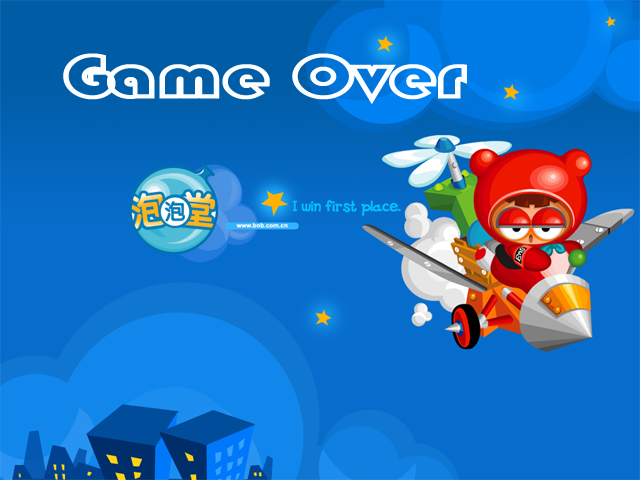
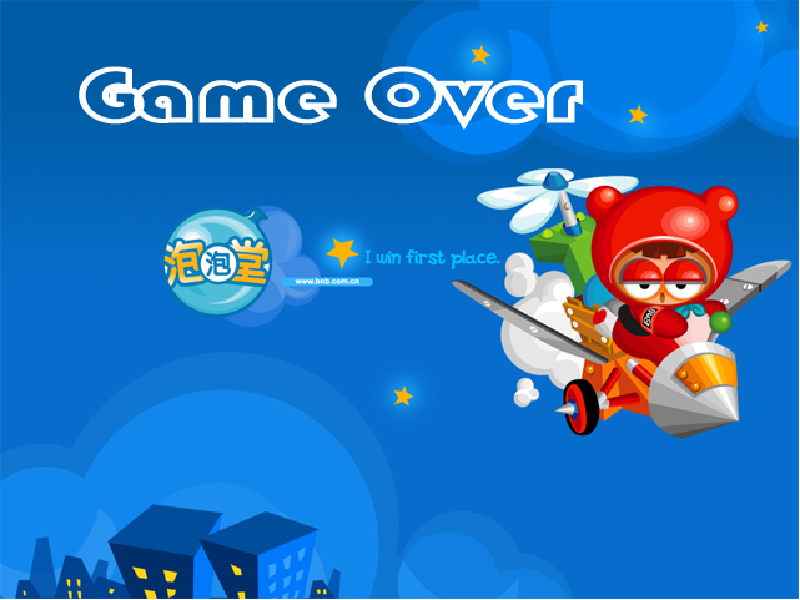
开始，结束界面
1.添加游戏开始界面
2.添加游戏结束界面

diff --git a/src/com/bubblehub/frame/WelcomePanel.java b/src/com/bubblehub/frame/WelcomePanel.java
@@ -19,12 +19,21 @@ public class WelcomePanel extends JPanel {
     @Override
     public void paint(Graphics g) {
         super.paint(g);
+        this.setLayout(null);
 //        String url = "resources/img/Titles.png";
 //        ImageIcon img = new ImageIcon(url);
 //        g.drawImage(img.getImage(),0,0,this.getWidth(),this.getHeight(),this);
 
+        // 添加背景图片
+        ImageIcon bgImg = new ImageIcon("resources/img/Titles2.png");
+        JLabel bgLabel = new JLabel();
+        bgLabel.setIcon(bgImg);
+        bgLabel.setBounds(0, 0, 800, 600);
+
+
         JButton startButton = new JButton();
         startButton.setText("开始游戏");
+        startButton.setBounds(250, 200, 300, 100);
         startButton.addActionListener(new ActionListener() {
             @Override
             public void actionPerformed(ActionEvent e) {
@@ -38,16 +47,12 @@ public class WelcomePanel extends JPanel {
             }
         });
         startButton.setFocusable(false);
-        BorderLayout layout = new BorderLayout();
-        this.setLayout(layout);
-        this.add(startButton,BorderLayout.CENTER);
-
-    }
-
-    //背景图片
-    @Override
-    protected void paintComponent(Graphics g) {
-        super.paintComponent(g);
+        this.add(startButton);
+        this.add(bgLabel);
+        this.updateUI();
+//        BorderLayout layout = new BorderLayout();
+//        this.setLayout(layout);
+//        this.add(startButton,BorderLayout.CENTER);
 
     }
 }

diff --git a/src/com/bubblehub/frame/MainFrame.java b/src/com/bubblehub/frame/MainFrame.java
@@ -36,6 +36,7 @@ public class MainFrame extends JFrame {
     private MouseMotionListener mouseMotionListener;
     // 画板
     private JPanel jPanel;
+    private GameOverPanel gameOverPanel;
 
     // 窗体构造方法，为了提高可复用程度，使用init函数
     public MainFrame() throws HeadlessException {
@@ -85,9 +86,15 @@ public class MainFrame extends JFrame {
 
     // 游戏结束
     public void endGame() {
+//        this.getContentPane().removeAll();
+//        JOptionPane.showMessageDialog(null, "游戏结束了。╮(╯▽╰)╭");
+//        this.setVisible(false);
+        GameOverPanel gameOverPanel = new GameOverPanel();
         this.getContentPane().removeAll();
-        JOptionPane.showMessageDialog(null, "游戏结束了。╮(╯▽╰)╭");
-        this.setVisible(false);
+        this.repaint();
+        this.setjPanel(gameOverPanel);
+        this.addJPanel();
+        gameOverPanel.updateUI();
     }
 
     // 添加画板

diff --git a/src/com/bubblehub/frame/GameOverPanel.java b/src/com/bubblehub/frame/GameOverPanel.java
@@ -1,10 +1,25 @@
 package com.bubblehub.frame;
 
+import javax.swing.*;
+import java.awt.*;
+
 /**
  * @Author Fisher
  * @Date 2019/4/17 22:06
  **/
 
 
-public class GameOverPanel {
+public class GameOverPanel extends JPanel {
+    @Override
+    public void paint(Graphics g) {
+        super.paint(g);
+        // 添加背景图片
+        ImageIcon bgImg = new ImageIcon("resources/img/Gameover.png");
+        JLabel bgLabel = new JLabel();
+        bgLabel.setIcon(bgImg);
+        bgLabel.setBounds(0,0,800,600);
+        this.add(bgLabel);
+//        this.repaint();
+        this.updateUI();
+    }
 }

diff --git a/src/com/bubblehub/main/GameStart.java b/src/com/bubblehub/main/GameStart.java
@@ -5,7 +5,7 @@ import com.bubblehub.frame.MainJPanel;
 import com.bubblehub.frame.WelcomePanel;
 import com.bubblehub.model.loader.ElementLoader;
 import com.bubblehub.thread.GameListener;
-import sun.applet.Main;
+//import sun.applet.Main;
 
 /**
  * @Author Fisher
@@ -41,7 +41,7 @@ public class GameStart {
             // 游戏启动
 //            mainFrame.start();
             mainFrame.runStart();
-            mainFrame.playGameBgm();
+//            mainFrame.playGameBgm();
 
         } catch (RuntimeException e) {
             e.printStackTrace();
